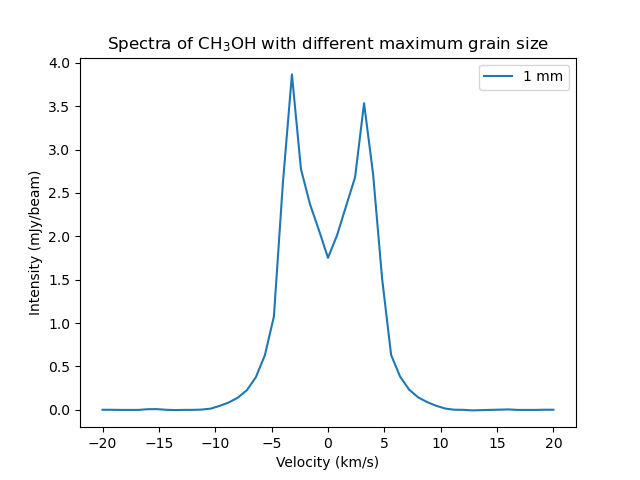
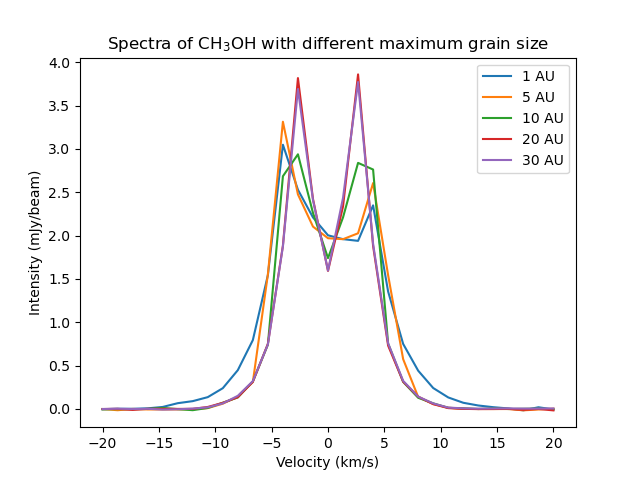
Backup

diff --git a/plot/plot_spectra/plot_spectra.py b/plot/plot_spectra/plot_spectra.py
@@ -63,23 +63,24 @@ def plot_spectra(incl=70, line=240, vkm=0, v_width=20, nlam=51,
     return
 ###############################################################################
 
-rcb_list = [1,5,10,20,30]
+# rcb_list = [1,5,10,20,30]
 
-for idx_rcb, rcb in enumerate(rcb_list):
+# for idx_rcb, rcb in enumerate(rcb_list):
             
-    problem_setup(a_max=0.1, Mass_of_star=0.14*Msun, Accretion_rate=0.14e-5*Msun/yr, Radius_of_disk=70*au, v_infall=1, 
-                      pancake=False, mctherm=True, snowline=True, floor=True, kep=True, Rcb=rcb)
+#     problem_setup(a_max=0.1, Mass_of_star=0.14*Msun, Accretion_rate=0.14e-5*Msun/yr, Radius_of_disk=70*au, v_infall=1, 
+#                       pancake=False, mctherm=True, snowline=True, floor=True, kep=True, Rcb=rcb)
             
-    plot_spectra(v_width=20, nlam=31, extract_gas=True)
+#     plot_spectra(v_width=20, nlam=31, extract_gas=True)
 
-    label = [str(r)+' AU' for r in rcb_list]
-    plt.legend(label)
-    plt.title('Spectra of $\mathregular{CH_3OH}$ with different maximum grain size')
+#     label = [str(r)+' AU' for r in rcb_list]
+#     plt.legend(label)
+#     plt.title('Spectra of $\mathregular{CH_3OH}$ with different maximum grain size')
 
-plt.savefig(f'./figures/mctherm/rcb/amax_01.png')
-plt.close()    
-
-
+# plt.savefig(f'./figures/mctherm/rcb/amax_01.png')
+# plt.close()    
+problem_setup(a_max=0.1, Mass_of_star=0.14*Msun, Accretion_rate=0.14e-5*Msun/yr, Radius_of_disk=70*au, v_infall=1, 
+                      pancake=False, mctherm=True, snowline=True, floor=True, kep=True, Rcb=None)
+plot_spectra(v_width=20, nlam=31, nodust=True, scat=False)
 
         
 
